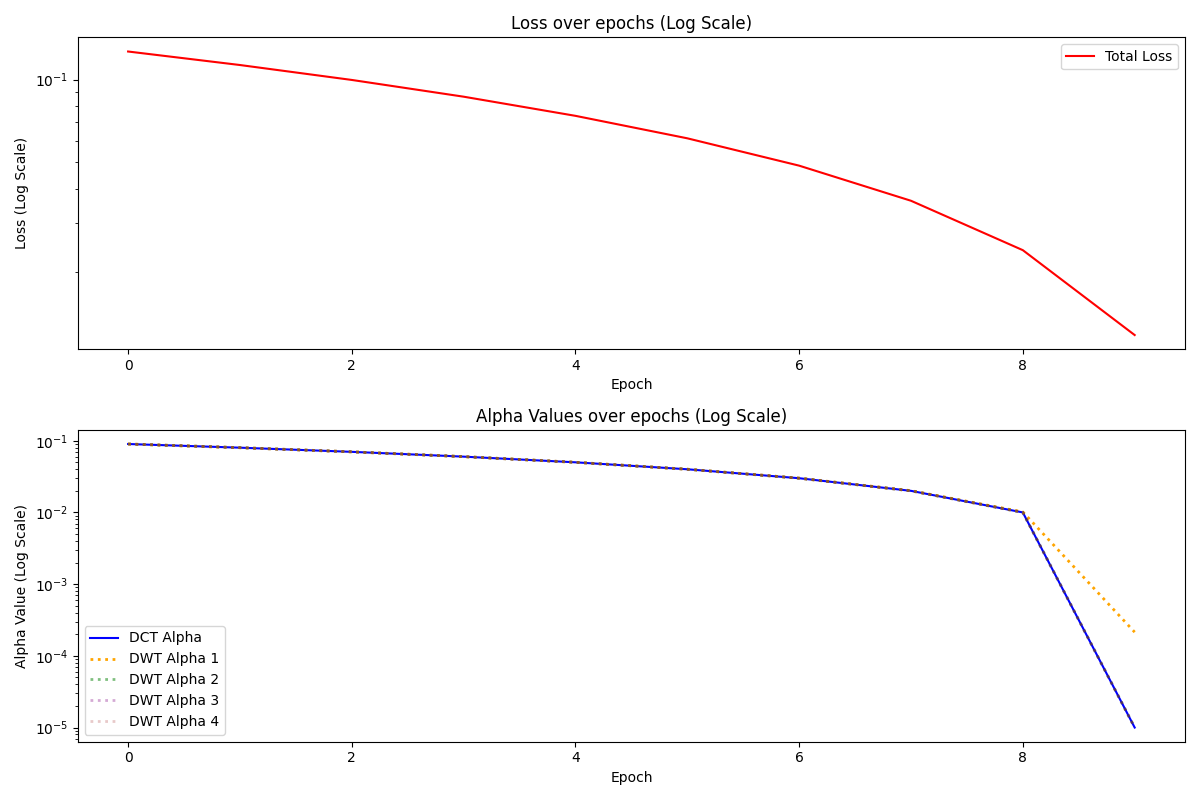
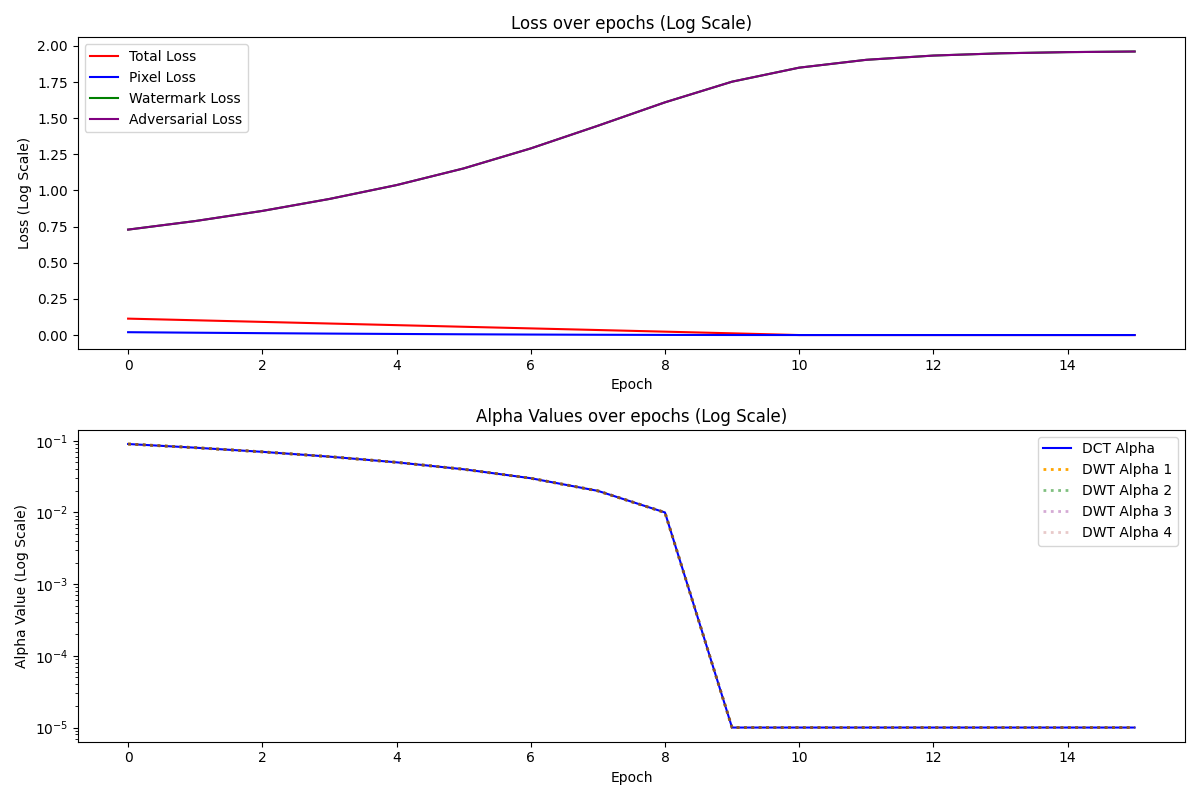
extra stuff

diff --git a/src/main.py b/src/main.py
@@ -218,6 +218,68 @@ def train_adversarial_watermarking(
     return alphas.detach().cpu()
 
 
+def plot_results(
+    epochs: int,
+    total_loss: list[float],
+    pixel_loss: list[float],
+    watermark_loss: list[float],
+    adversarial_loss: list[float],
+    dct_alpha: list[float],
+    dwt_alpha: list[list[float, float, float, float]],
+):
+    """Plot the training progress of the watermarking system."""
+    try:
+
+        plt.ion()  # Turn on interactive mode
+        plt.figure(figsize=(12, 8))
+
+        # Plot loss
+        plt.subplot(2, 1, 1)
+        plt.plot(range(epochs), total_loss, label="Total Loss", color="red")
+        plt.plot(range(epochs), pixel_loss, label="Pixel Loss", color="blue")
+        plt.plot(range(epochs), watermark_loss, label="Watermark Loss", color="green")
+        plt.plot(
+            range(epochs), adversarial_loss, label="Adversarial Loss", color="purple"
+        )
+        plt.yscale("linear")  # Use linear scale for loss
+        plt.title("Loss over epochs (Log Scale)")
+        plt.xlabel("Epoch")
+        plt.ylabel("Loss (Log Scale)")
+        plt.legend()
+
+        # Plot alphas
+        plt.subplot(2, 1, 2)
+        plt.plot(range(epochs), dct_alpha, label="DCT Alpha", color="blue")
+
+        # Define colors for DWT alphas
+        dwt_colours = ["orange", "green", "purple", "brown"]
+
+        # Plot each DWT alpha separately with its own color
+        for i in range(4):
+            plt.plot(
+                range(epochs),
+                [alpha[i] for alpha in dwt_alpha],
+                alpha=1 / (i + 1),
+                color=dwt_colours[i],
+                linestyle="dotted",
+                linewidth=2,
+                label=f"DWT Alpha {i+1}",
+            )
+
+        plt.yscale("log")  # Use log scale for alphas
+        plt.title("Alpha Values over epochs (Log Scale)")
+        plt.xlabel("Epoch")
+        plt.ylabel("Alpha Value (Log Scale)")
+        plt.legend()
+
+        plt.tight_layout()
+        plt.savefig("training_progress_log_scale.png")
+        plt.draw()
+        plt.pause(0.001)
+    except Exception as e:
+        print(f"Error plotting results: {e}")
+
+
 def train(
     content_tensor: Tensor, watermark_tensor: Tensor, style_tensor: Tensor, epochs=100
 ):
@@ -263,6 +325,19 @@ def train(
     losses = []
     dwt_alpha_history: list[list[float, float, float, float]] = []
     dct_alpha_history: list[float] = []
+
+    history = {
+        "total_loss": [],
+        "pixel_loss": [],
+        "watermark_loss": [],
+        "adversarial_loss": [],
+        "dct_alpha": [],
+        "dwt_alpha": [],
+    }
+
+    # dev stuff to cancel if values dont change
+    stall_count = 0
+    stall_count_max = 2
 
     print("Beginning training...")
     for epoch in range(epochs):
@@ -315,7 +390,7 @@ def train(
         total_loss = (
             parameters["pixel"] * pixel_loss
             # - parameters["watermark"] * (-watermark_loss)
-            * parameters["adversarial"] * adversary_loss
+            * (parameters["adversarial"] * adversary_loss)
         )
         # fmt: on
 
@@ -369,12 +444,37 @@ def train(
             dwt_a4.data.clamp_(min=0.00001, max=0.1)
             dct_alpha.data.clamp_(min=0.00001, max=0.1)
 
+        # dev functionality to cancel if losses are not changing
+        if (history["total_loss"] and len(history["total_loss"]) > 0) and (
+            len(history["total_loss"]) > 1
+        ):
+
+            if total_loss.item() == history["total_loss"][-1]:
+                stall_count += 1
+                print(f"Loss stalled {stall_count} times")
+                if stall_count >= stall_count_max:
+                    print(
+                        f"Training stalled for {stall_count_max} epochs. Stopping early."
+                    )
+                    epochs = epoch
+                    break
+            else:
+                stall_count = 0
+
         # Store history
-        losses.append(total_loss.item())
-        dwt_alpha_history.append(
+        history["total_loss"].append(total_loss.item())
+        history["pixel_loss"].append(pixel_loss.item())
+        history["watermark_loss"].append(adversary_loss.item())
+        history["adversarial_loss"].append(adversary_loss.item())
+        history["dct_alpha"].append(dct_alpha.item())
+        history["dwt_alpha"].append(
             [dwt_a1.item(), dwt_a2.item(), dwt_a3.item(), dwt_a4.item()]
         )
-        dct_alpha_history.append(dct_alpha.item())
+        # losses.append(total_loss.item())
+        # dwt_alpha_history.append(
+        #     [dwt_a1.item(), dwt_a2.item(), dwt_a3.item(), dwt_a4.item()]
+        # )
+        # dct_alpha_history.append(dct_alpha.item())
 
         # Print progress regularly
         if (epoch + 1) % 10 == 0:
@@ -388,55 +488,65 @@ def train(
             )
 
     # Plot the training progress
-    if epochs > 1:
+    if epochs > 0:
         print("epoch history")
         print(dct_alpha_history)
         print(dwt_alpha_history)
-        try:
-            import matplotlib.pyplot as plt
+        # try:
+        #     import matplotlib.pyplot as plt
 
-            plt.figure(figsize=(12, 8))
+        plot_results(
+            epochs=epochs,
+            total_loss=history["total_loss"],
+            pixel_loss=history["pixel_loss"],
+            watermark_loss=history["watermark_loss"],
+            adversarial_loss=history["adversarial_loss"],
+            dct_alpha=history["dct_alpha"],
+            dwt_alpha=history["dwt_alpha"],
+        )
+        #     plt.ion()  # Turn on interactive mode
+        #     plt.figure(figsize=(12, 8))
 
-            # Plot loss
-            plt.subplot(2, 1, 1)
-            plt.plot(range(epochs), losses, label="Total Loss", color="red")
-            plt.yscale("log")  # Use log scale for loss
-            plt.title("Loss over epochs (Log Scale)")
-            plt.xlabel("Epoch")
-            plt.ylabel("Loss (Log Scale)")
-            plt.legend()
+        #     # Plot loss
+        #     plt.subplot(2, 1, 1)
+        #     plt.plot(range(epochs), losses, label="Total Loss", color="red")
+        #     plt.yscale("log")  # Use log scale for loss
+        #     plt.title("Loss over epochs (Log Scale)")
+        #     plt.xlabel("Epoch")
+        #     plt.ylabel("Loss (Log Scale)")
+        #     plt.legend()
 
-            # Plot alphas
-            plt.subplot(2, 1, 2)
-            plt.plot(range(epochs), dct_alpha_history, label="DCT Alpha", color="blue")
+        #     # Plot alphas
+        #     plt.subplot(2, 1, 2)
+        #     plt.plot(range(epochs), dct_alpha_history, label="DCT Alpha", color="blue")
 
-            # Define colors for DWT alphas
-            dwt_colours = ["orange", "green", "purple", "brown"]
+        #     # Define colors for DWT alphas
+        #     dwt_colours = ["orange", "green", "purple", "brown"]
 
-            # Plot each DWT alpha separately with its own color
-            for i in range(4):
-                plt.plot(
-                    range(epochs),
-                    [alpha[i] for alpha in dwt_alpha_history],
-                    alpha=1 / (i + 1),
-                    color=dwt_colours[i],
-                    linestyle="dotted",
-                    linewidth=2,
-                    label=f"DWT Alpha {i+1}",
-                )
+        #     # Plot each DWT alpha separately with its own color
+        #     for i in range(4):
+        #         plt.plot(
+        #             range(epochs),
+        #             [alpha[i] for alpha in dwt_alpha_history],
+        #             alpha=1 / (i + 1),
+        #             color=dwt_colours[i],
+        #             linestyle="dotted",
+        #             linewidth=2,
+        #             label=f"DWT Alpha {i+1}",
+        #         )
 
-            plt.yscale("log")  # Use log scale for alphas
-            plt.title("Alpha Values over epochs (Log Scale)")
-            plt.xlabel("Epoch")
-            plt.ylabel("Alpha Value (Log Scale)")
-            plt.legend()
+        #     plt.yscale("log")  # Use log scale for alphas
+        #     plt.title("Alpha Values over epochs (Log Scale)")
+        #     plt.xlabel("Epoch")
+        #     plt.ylabel("Alpha Value (Log Scale)")
+        #     plt.legend()
 
-            plt.tight_layout()
-            plt.savefig("training_progress_log_scale.png")
-            plt.draw()
-            plt.pause(0.001)
-        except Exception as e:
-            print(f"Error plotting results: {e}")
+        #     plt.tight_layout()
+        #     plt.savefig("training_progress_log_scale.png")
+        #     plt.draw()
+        #     plt.pause(0.001)
+        # except Exception as e:
+        #     print(f"Error plotting results: {e}")
 
     print("Training complete.")
     # print(f"Final DWT Alphas: {dwt_alphas.detach().cpu().numpy()}")
@@ -461,7 +571,7 @@ def main():
     styleTensor: Tensor = preprocessImage(STYLE_IMAGES_LIST[2], DEVICE).to(DEVICE)
 
     dwt_alphas, dct_alpha = train(
-        contentTensor, watermarkTensor, styleTensor, epochs=10
+        contentTensor, watermarkTensor, styleTensor, epochs=200
     )
 
     # perform DCT DWT watermark embedding

diff --git a/src/util/NST.py b/src/util/NST.py
@@ -68,7 +68,7 @@ def performNST(
     beta: float = 70,
     mode: ModeType = "gatys",
 ) -> Tensor:
-    print("path:", GATYS_PATH)
+    # print("path:", GATYS_PATH)
 
     outputPath = ROOT_DIRECTORY / "temp"
 
@@ -81,7 +81,7 @@ def performNST(
     ), f"Directory does not exist: {tempContentPath.parent}"
     contentImagePIL: Tensor = tensorToImage(contentImage)
     contentImagePIL.save(tempContentPath, format="JPEG")
-    print("Content Image saved to:", tempContentPath)
+    # print("Content Image saved to:", tempContentPath)
 
     tempStylePath = ROOT_DIRECTORY / "temp" / "style.jpg"
     tempStylePath.parent.mkdir(parents=True, exist_ok=True)
@@ -91,7 +91,7 @@ def performNST(
     styleImagePIL = tensorToImage(styleImage)
     styleImagePIL.save(tempStylePath, format="JPEG")
 
-    print("Style Image saved to:", tempStylePath)
+    # print("Style Image saved to:", tempStylePath)
 
     print("Calling Neural Style Transfer Script...")
 
@@ -165,7 +165,7 @@ def run_gatys(
 
     # Run the command
     command = " ".join(command)
-    print("Command:", command)
+    # print("Command:", command)
     subprocess.run(command, shell=True, check=True)
 
 
@@ -211,7 +211,7 @@ def run_adain(
 
     # Run the command
     command = " ".join(command)
-    print("Command:", command)
+    # print("Command:", command)
     subprocess.run(command, cwd=ADAIN_PATH, shell=True, check=True)
 
     # Move the output to the desired location

diff --git a/documentation/second_test.md b/documentation/second_test.md
@@ -58,3 +58,7 @@ parameters = {
 ![alt text](GATYS_styled_watermark.jpg)
 * performed same as ADAIN, just using gatys instead
 
+# Issues from this
+![alt text](ADAIN_loss_breakdown.png)
+
+* The adversarial loss ( detection of watermark ) shows to be decreasing, it should be increasing. Indicating the model isn't detecting the watermark ( its confident at start as theirs more overall visibility, making the watermark less distorted)
